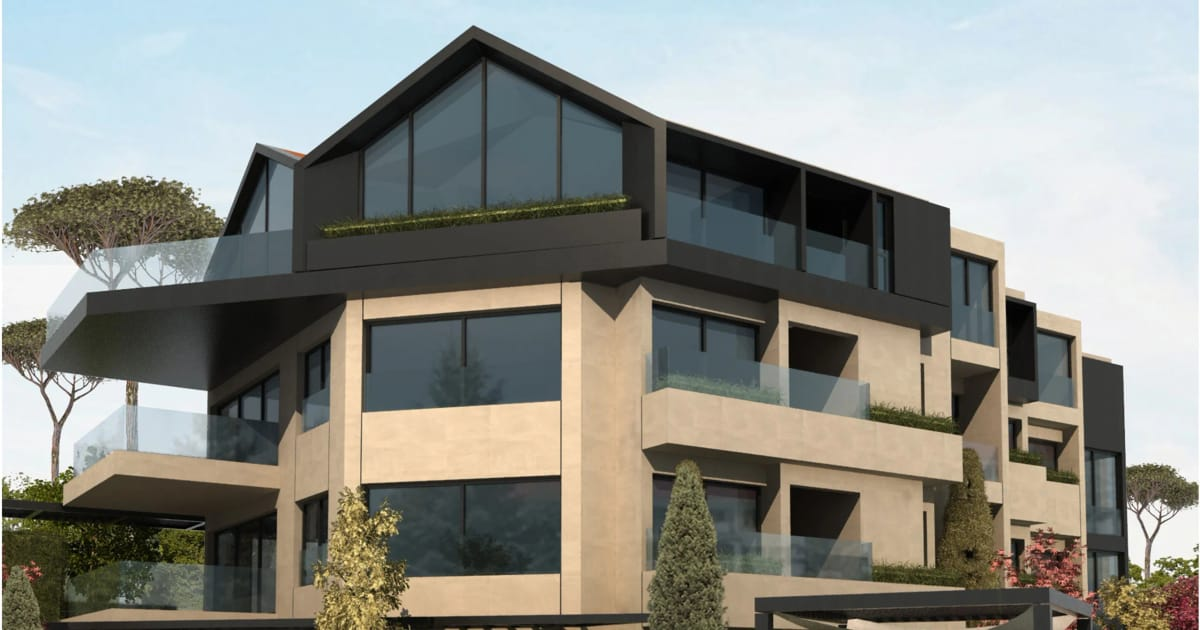
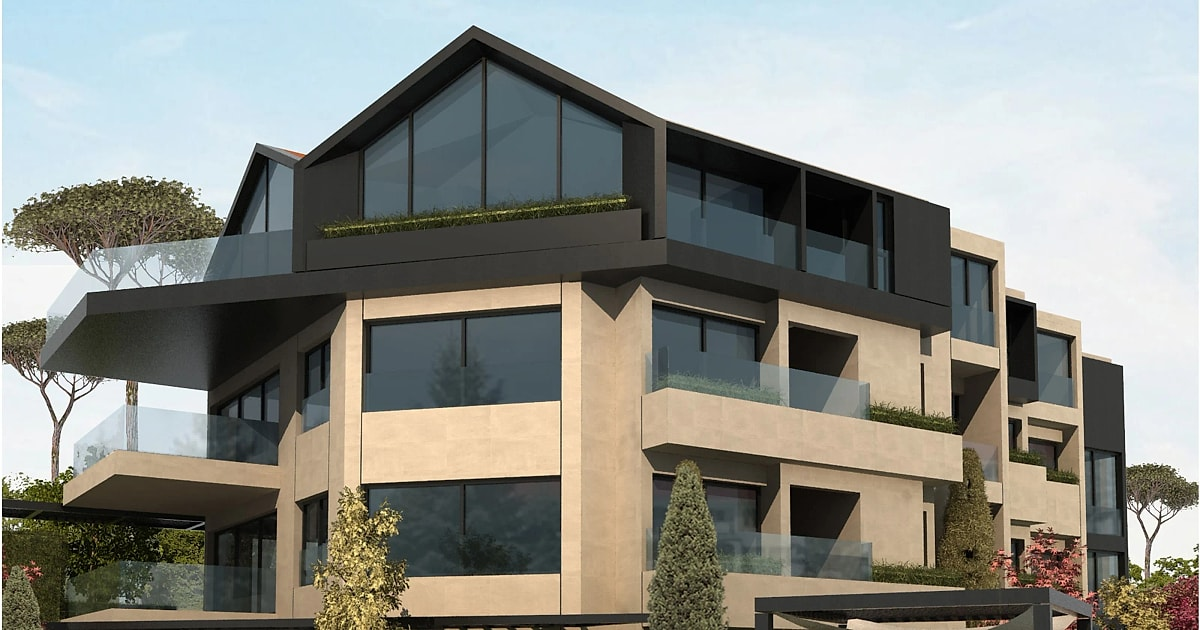
Sharpen the link-preview card
WhatsApp recompresses every preview, so the card must arrive crisp:
rebuilt from the 3200w master with a light sharpen and quality 90
instead of 80 (still ~143KB, well under WhatsApp's limit). Declared
og:image:width/height so the first share renders the full-size card
instead of a thumbnail.

Claude-Session: https://claude.ai/code/session_013YWxHGuSn5tojpMA2gYdkV

diff --git a/index.html b/index.html
@@ -15,6 +15,8 @@
       content="Construction management, contracting and development in Lebanon since 2002. Now selling: Daher el Souane 563."
     />
     <meta property="og:image" content="https://pmcclb.com/im/og-card.jpg" />
+    <meta property="og:image:width" content="1200" />
+    <meta property="og:image:height" content="630" />
     <meta property="og:url" content="https://pmcclb.com/" />
     <meta property="og:type" content="website" />
     <meta property="og:site_name" content="PMCC" />
